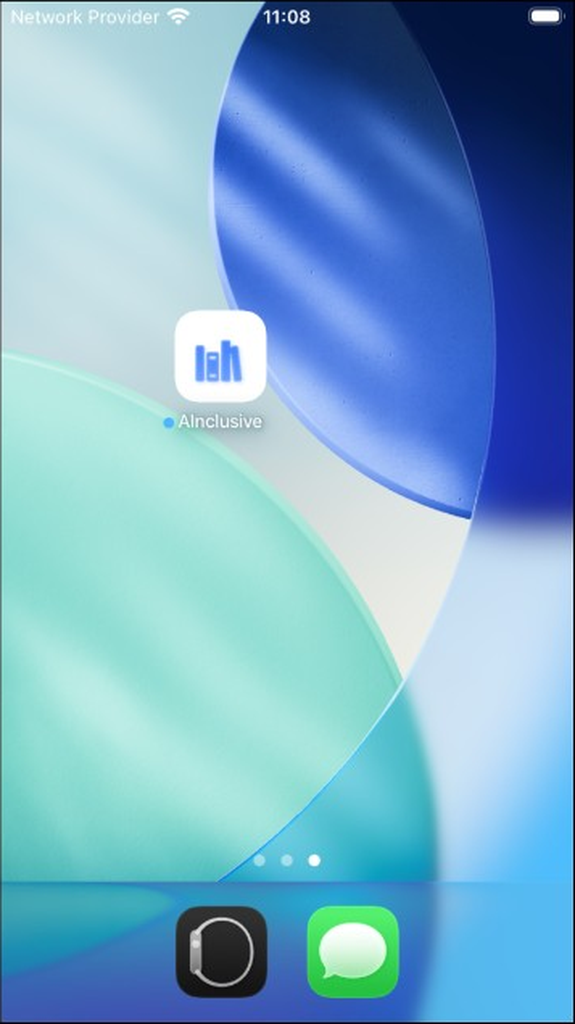
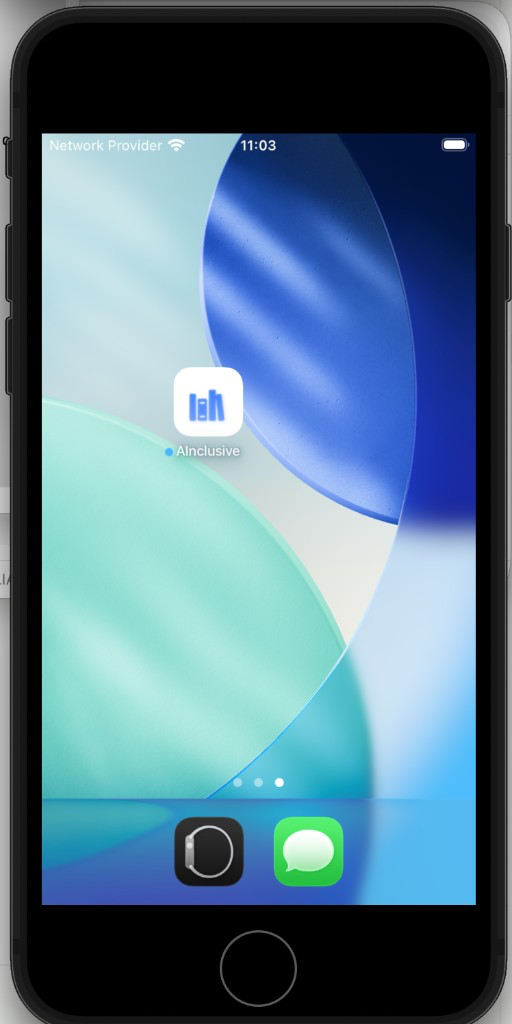
Show AInclusive home-screen shot with native iPhone frame.
Replace the cropped asset with the full-device capture and skip CSS phoneMock chrome for that shot so the bezel is not doubled.

diff --git a/lib/ainclusive-store-content.ts b/lib/ainclusive-store-content.ts
@@ -51,7 +51,7 @@ export type LandingCopy = {
   shotsKicker: string;
   shotsTitle: string;
   shotsLead: string;
-  shots: { src: string; name: string; note: string; alt: string }[];
+  shots: { src: string; name: string; note: string; alt: string; hasDeviceFrame?: boolean }[];
   featuresKicker: string;
   featuresTitle: string;
   featuresLead: string;
@@ -133,6 +133,7 @@ export const AINCLUSIVE_LANDING: Record<AInclusiveLocale, LandingCopy> = {
       },
       {
         src: '/ainclusive/home-screen.png',
+        hasDeviceFrame: true,
         name: 'On the Home Screen',
         note: 'The real AInclusive icon as it appears on iPhone.',
         alt: 'iPhone Home Screen showing the AInclusive app icon',
@@ -254,6 +255,7 @@ export const AINCLUSIVE_LANDING: Record<AInclusiveLocale, LandingCopy> = {
       },
       {
         src: '/ainclusive/home-screen.png',
+        hasDeviceFrame: true,
         name: 'על מסך הבית',
         note: 'האייקון האמיתי של AInclusive באייפון.',
         alt: 'מסך הבית של האייפון עם אייקון AInclusive',
@@ -376,6 +378,7 @@ export const AINCLUSIVE_LANDING: Record<AInclusiveLocale, LandingCopy> = {
       },
       {
         src: '/ainclusive/home-screen.png',
+        hasDeviceFrame: true,
         name: 'Sulla Home Screen',
         note: 'L’icona reale di AInclusive sull’iPhone.',
         alt: 'Home Screen iPhone con l’icona dell’app AInclusive',
@@ -500,6 +503,7 @@ export const AINCLUSIVE_LANDING: Record<AInclusiveLocale, LandingCopy> = {
       },
       {
         src: '/ainclusive/home-screen.png',
+        hasDeviceFrame: true,
         name: 'На домашнем экране',
         note: 'Настоящая иконка AInclusive на iPhone.',
         alt: 'Домашний экран iPhone с иконкой приложения AInclusive',

diff --git a/app/ainclusive/LandingClient.tsx b/app/ainclusive/LandingClient.tsx
@@ -80,11 +80,15 @@ export default function AInclusiveLandingClient() {
           <div className={styles.museumGrid}>
             {t.shots.map((shot) => (
               <figure className={styles.museumCard} key={shot.src}>
-                <div className={styles.phoneMock}>
+                <div
+                  className={
+                    shot.hasDeviceFrame ? styles.framedDevice : styles.phoneMock
+                  }
+                >
                   <Image
                     src={shot.src}
                     alt={shot.alt}
-                    width={575}
+                    width={shot.hasDeviceFrame ? 512 : 575}
                     height={1024}
                     className={styles.museumScreenshot}
                   />

diff --git a/app/ainclusive/ainclusive.module.css b/app/ainclusive/ainclusive.module.css
@@ -451,6 +451,18 @@
   padding: 0;
 }
 
+/* Hardware-framed screenshots already include bezel + home button */
+.framedDevice {
+  overflow: visible;
+  max-width: 260px;
+  margin: 0 auto;
+  background: transparent;
+  border: none;
+  border-radius: 0;
+  box-shadow: none;
+  padding: 0;
+}
+
 .heroScreenshot {
   display: block;
   width: 100%;
@@ -769,8 +781,16 @@
     max-width: 240px;
   }
 
+  .museumCard .framedDevice {
+    max-width: 260px;
+  }
+
   .phoneMock {
     max-width: 220px;
+  }
+
+  .framedDevice {
+    max-width: 240px;
   }
 
   .jarGrid {
